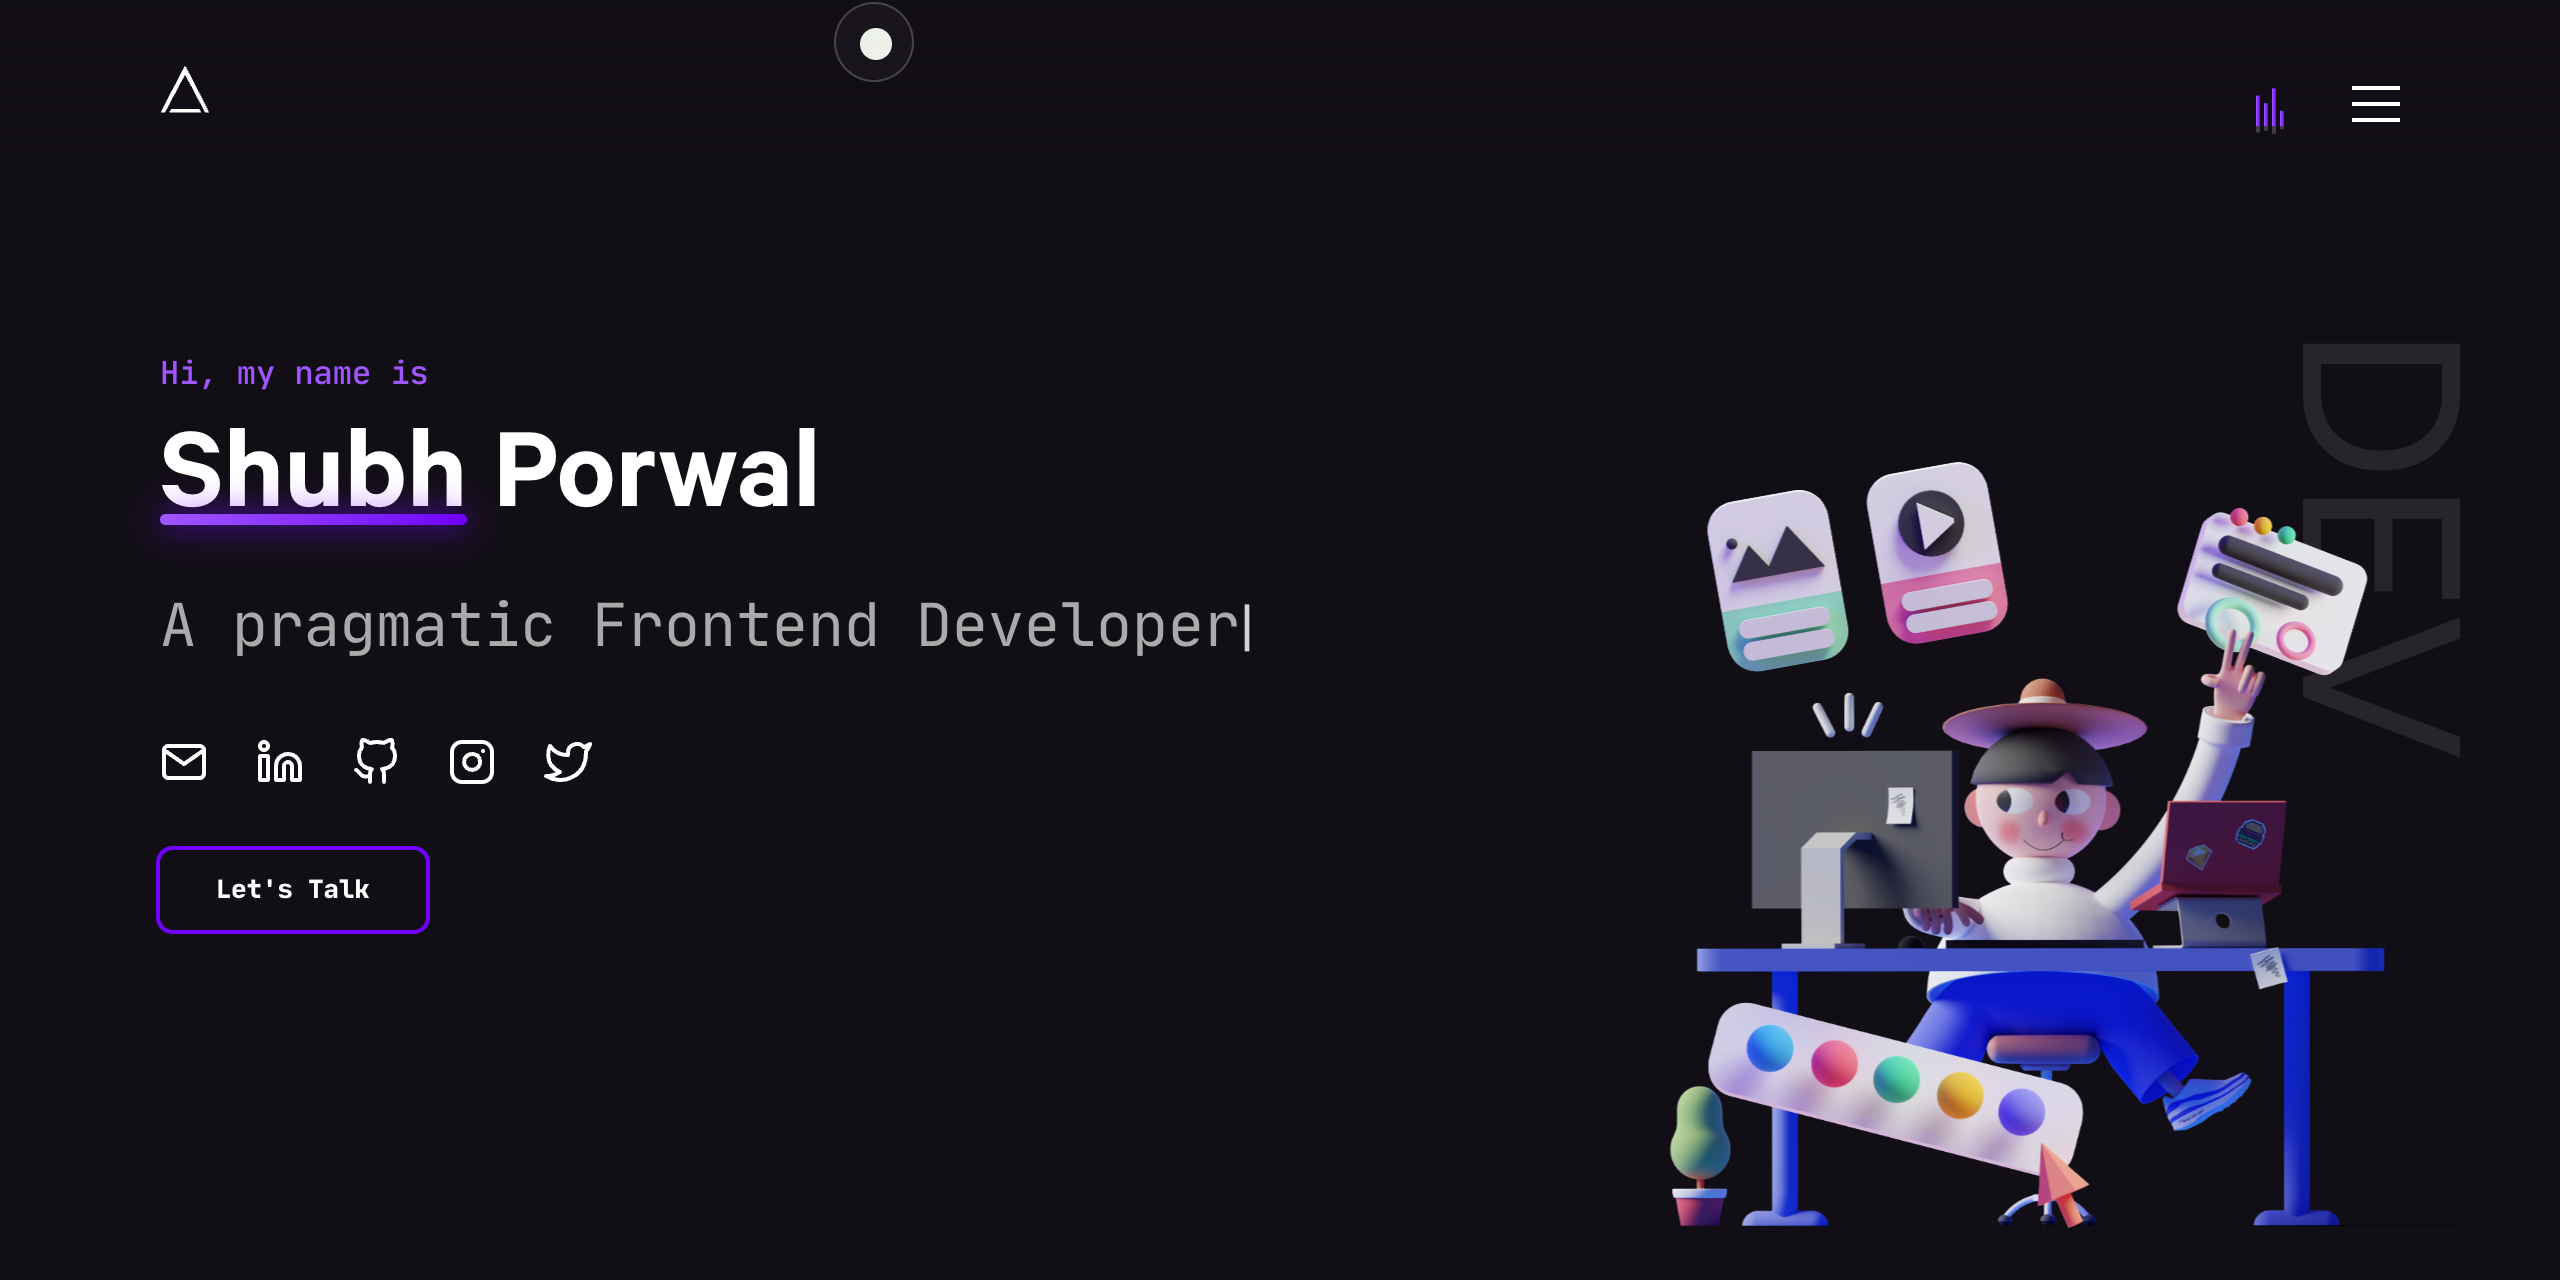
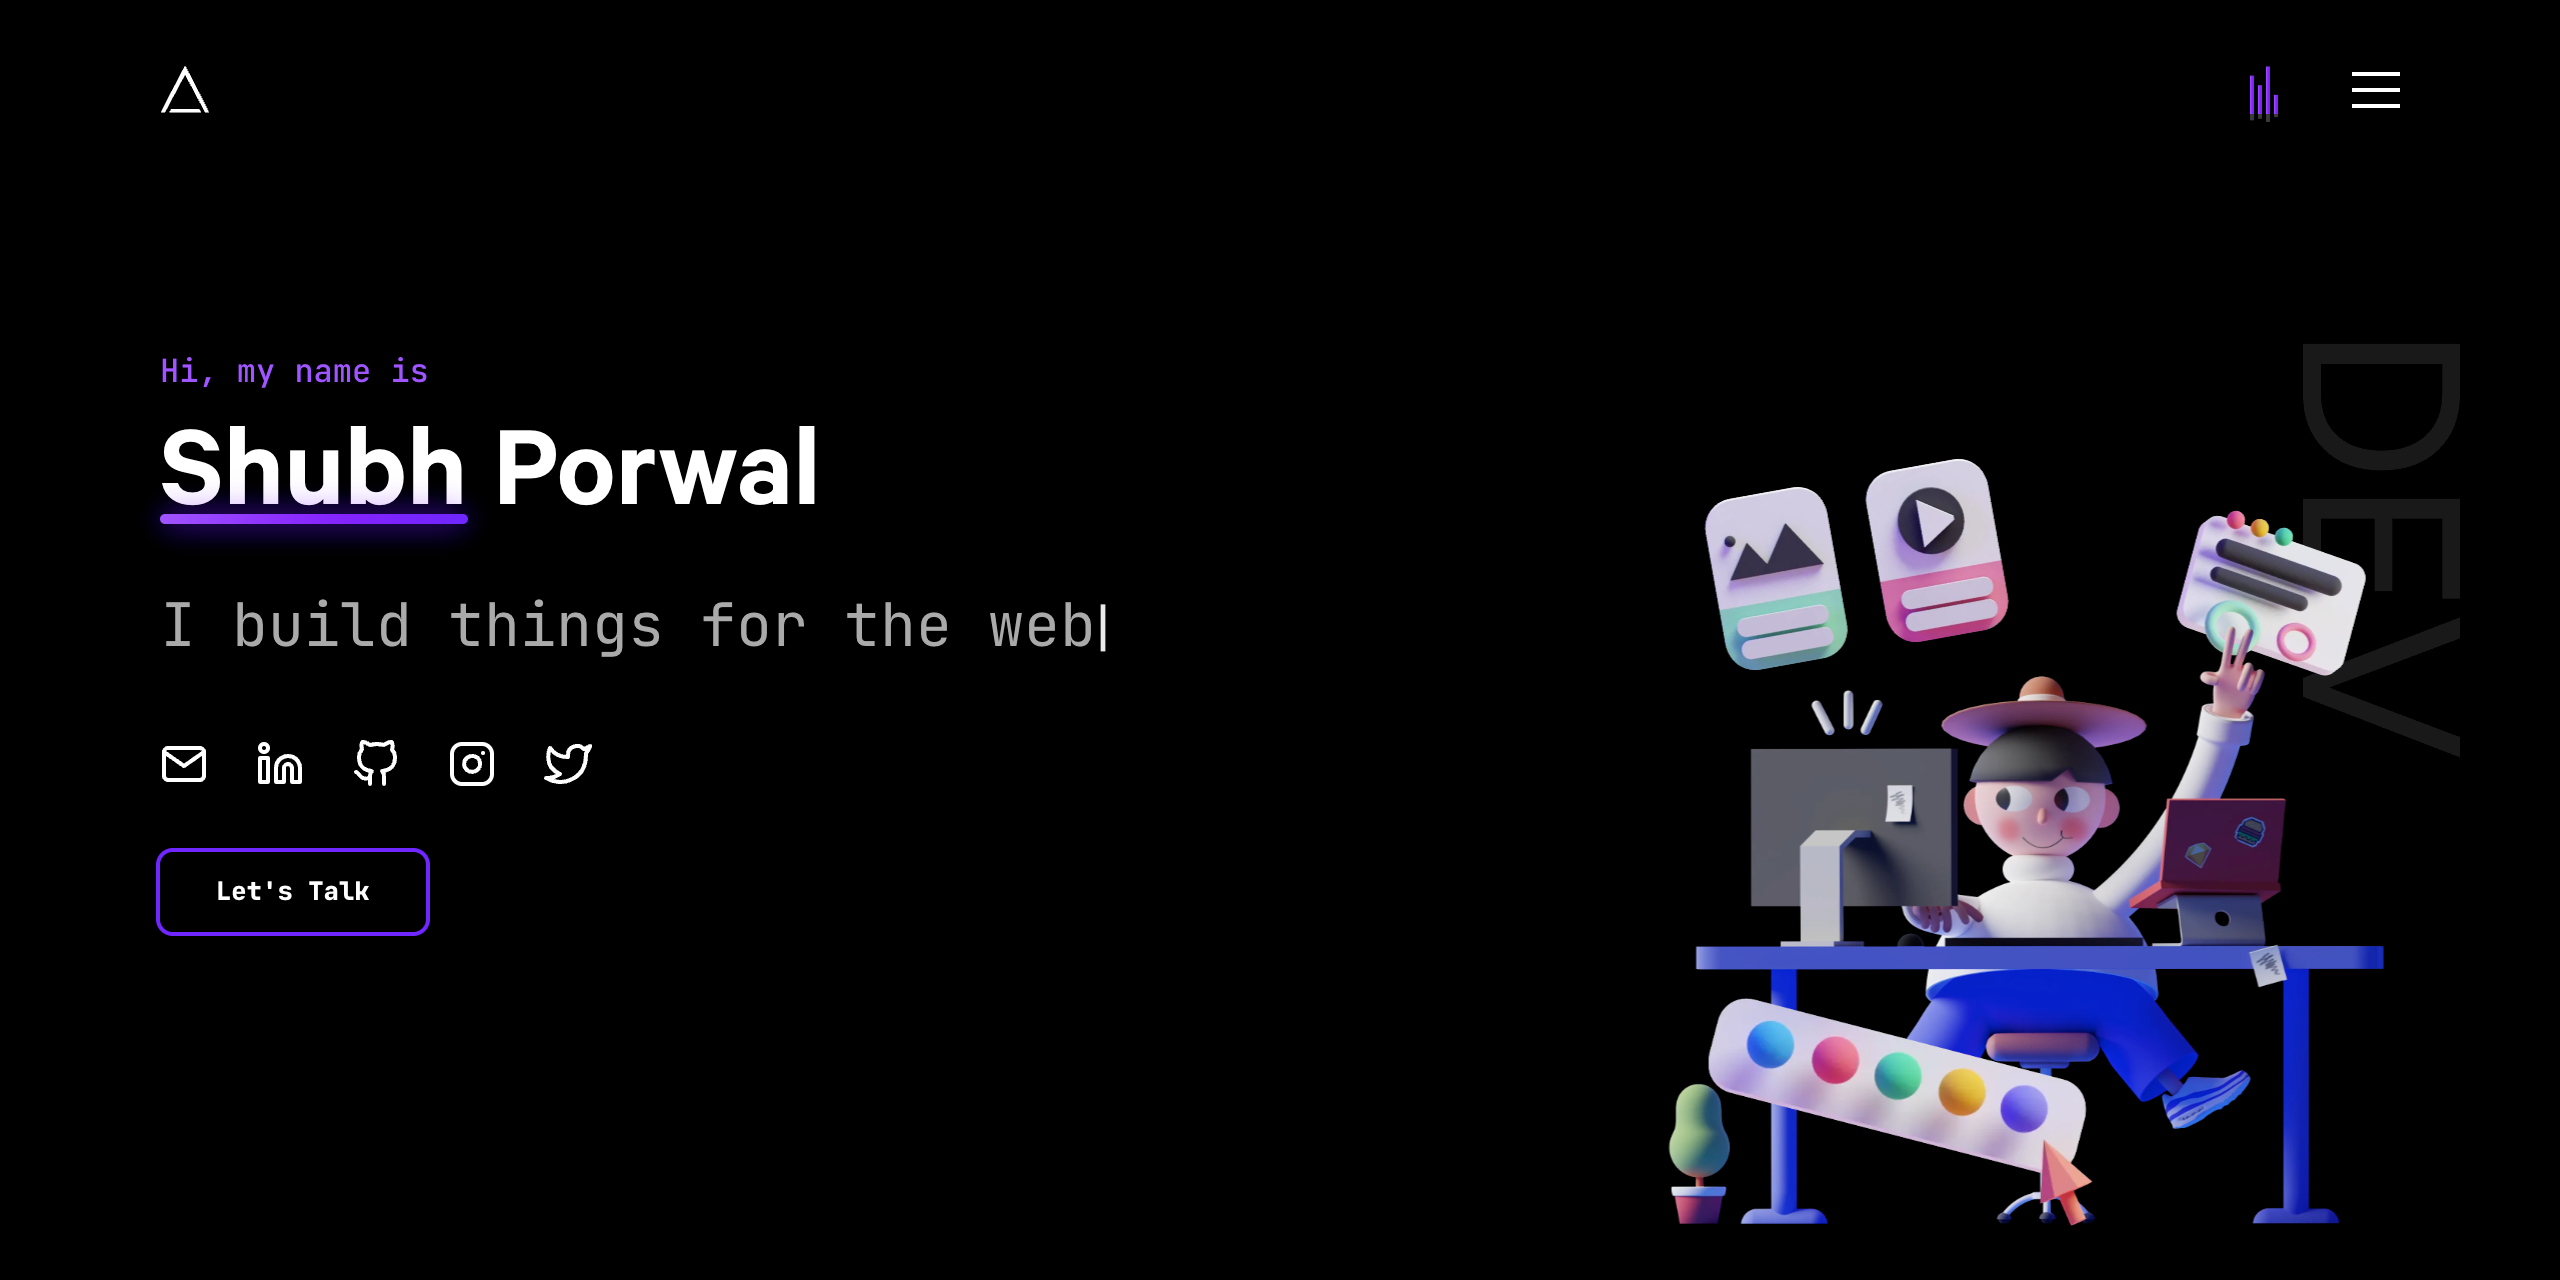
chore: update og image

diff --git a/constants.js b/constants.js
@@ -15,7 +15,7 @@ export const METADATA = {
     "Folio",
   ].join(", "),
   image:
-    "https://res.cloudinary.com/dywdhyojt/image/upload/v1690572126/preview.png",
+    "https://res.cloudinary.com/dywdhyojt/image/upload/v1721378510/social-preview.png",
   language: "English",
   themeColor: "#000000",
 };
